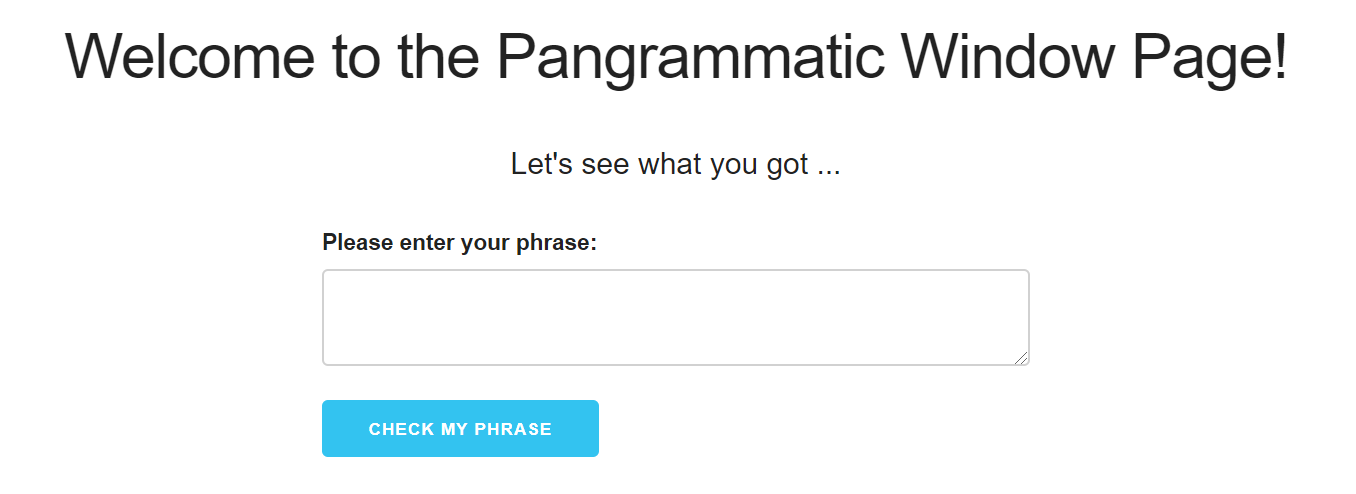
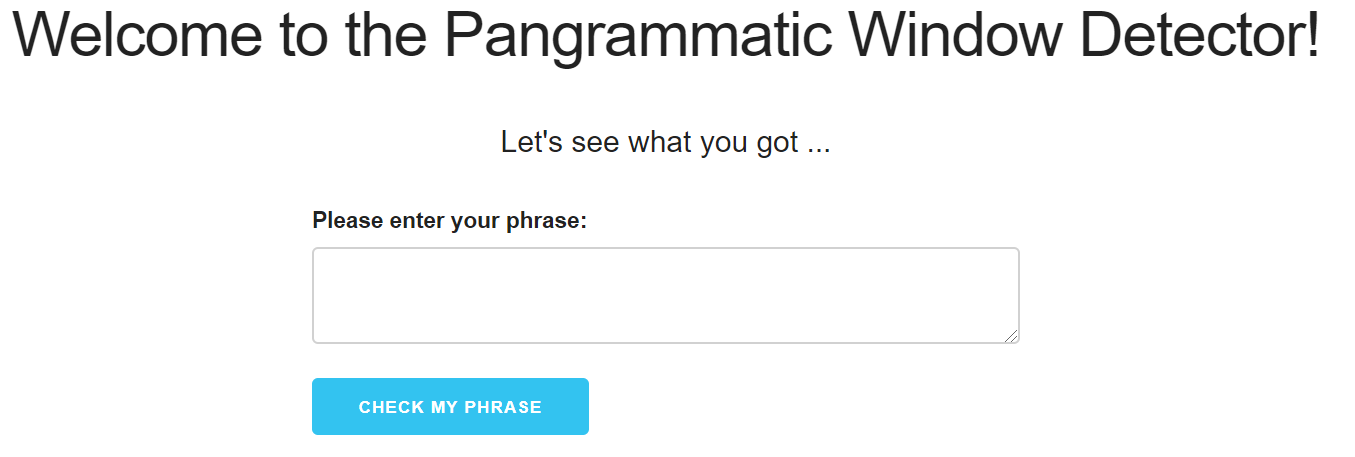
updated readme

diff --git a/panWindow.html b/panWindow.html
@@ -8,7 +8,7 @@
 </head>
 
 <body>
-    <h2>Welcome to the Pangrammatic Window Page!</h2>
+    <h2>Welcome to the Pangrammatic Window Detector!</h2>
 
     <p id="outcome">Let's see what you got ...</p>
 
